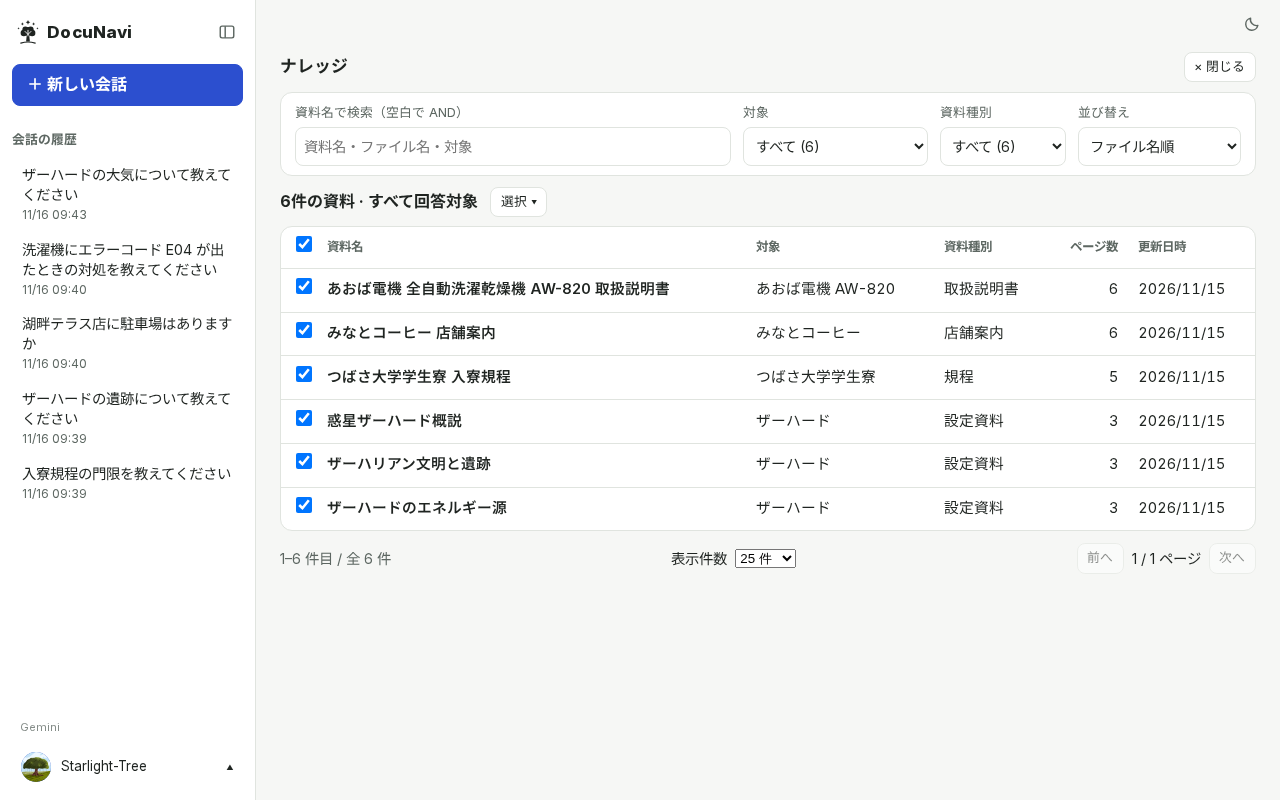
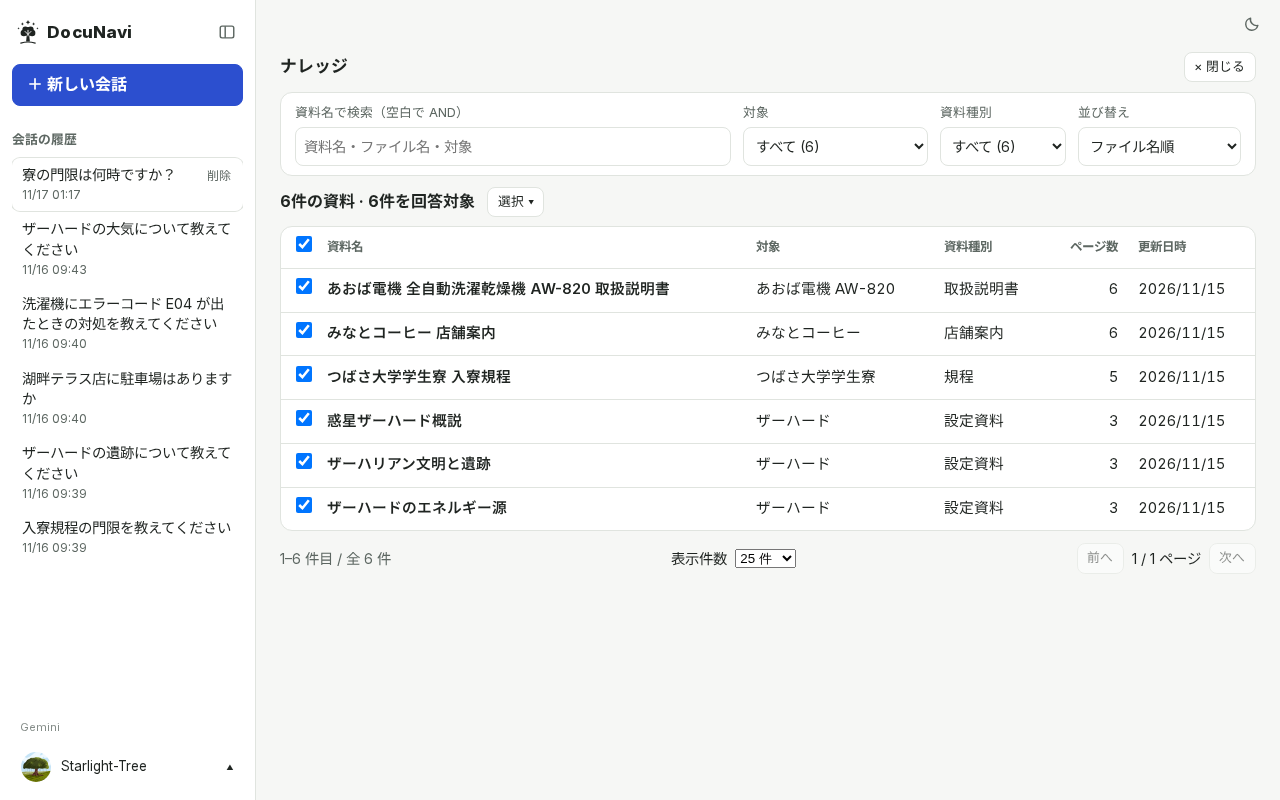
docs(readme): replace the screenshots and fix their captions
Retake chat.png (two turns, sources, follow-up suggestions, history;
no input focus ring) and documents.png (the six sample documents) at
1280x800, light theme, from the local stack with the real Gemini free
key. Describe the filters as target and type, which is what the screen
shows (the English caption said group).

Changed region(s): [[0.0, 0.1875, 0.1875, 0.625], [0.2812, 0.2188, 0.4062, 0.2812], [0.0, 0.625, 0.125, 0.6875]]

diff --git a/README.ja.md b/README.ja.md
@@ -7,7 +7,7 @@
 資料（PDF）を根拠に答える RAG チャットボットです（FastAPI、LangGraph、Gemini、Postgres + pgvector、Cloudflare Workers 上の Next.js）。回答には出典の番号が付き、押すと資料が開きます。
 題材の資料（`storage/pdf/`）は架空のものです。
 
-| チャット（回答の下に出典、続けて聞く候補、複数回の追加質問と会話の履歴） | 資料一覧（対象・資料種別で絞り込み、回答に使う資料を選ぶ） |
+| チャット（回答の下に出典、続けて聞く候補、2 往復の質問と会話の履歴） | 資料一覧（対象・資料種別で絞り込み、回答に使う資料を選ぶ） |
 |---|---|
 | ![チャット画面](docs/images/chat.png) | ![資料一覧](docs/images/documents.png) |
 

diff --git a/README.md b/README.md
@@ -7,7 +7,7 @@ English | [日本語](README.ja.md)
 DocuNavi is a RAG chatbot that answers questions from PDF documents and cites its sources (FastAPI, LangGraph, Gemini, Postgres + pgvector, Next.js on Cloudflare Workers).
 The sample documents (`storage/pdf/`) are fictional.
 
-| Chat (sources under each answer, follow-up suggestions, a multi-turn conversation with history) | Document list (filter by group and type, choose which documents to use) |
+| Chat (cited sources under each answer, follow-up suggestions, a two-turn conversation with history) | Document list (filter by target and type, choose which documents to answer from) |
 |---|---|
 | ![Chat screen](docs/images/chat.png) | ![Document list](docs/images/documents.png) |
 
